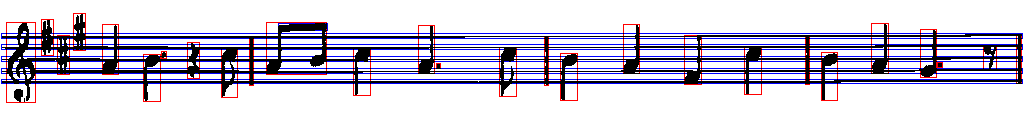
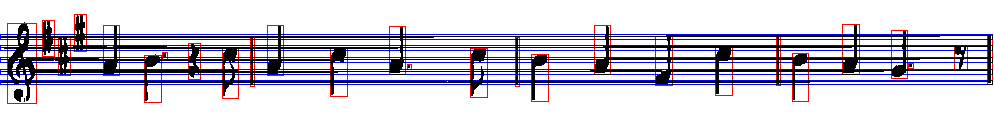
Recognise almost all elements from the example stave lines and store them in Maps/Table.

Changed region(s): [[0.0, 0.0896, 1.0, 0.7761]]

diff --git a/src/OmrOpenCV.java b/src/OmrOpenCV.java
@@ -16,6 +16,7 @@ import utils.DatasetPaths;
 import java.util.ArrayList;
 import java.util.List;
 import java.util.Map;
+import java.util.Optional;
 
 import static utils.OutputPaths.*;
 
@@ -147,7 +148,7 @@ public class OmrOpenCV {
         staveImageProcessing.saveImage(elementsWithQuartersRectangles, DEFAULT_OUTPUT.getPath());
     }
 
-    public void findAllCenterNotePoints() {
+    public List<Point> findAllCenterNotePoints() {
         Mat outputMat = refinedVerticalObjectsMat.clone();
         if (outputMat.channels() < 3) {
             Imgproc.cvtColor(outputMat, outputMat, Imgproc.COLOR_GRAY2BGR);
@@ -155,8 +156,85 @@ public class OmrOpenCV {
 
         List<Rect> rectangles = StaveElementDetection.getImageElementContourRectangles(refinedVerticalObjectsMat);
 
-        List<Point> centers = matchingTemplate.findAllNoteHeadCenters(refinedVerticalObjectsMat, rectangles);
+        List<Point> centers = matchingTemplate.findAllNoteHeadCenters(refinedVerticalObjectsMat.clone(), rectangles);
         centers.forEach(centerPoint -> Imgproc.circle(outputMat, centerPoint, 1, colorGreen, 1, Imgproc.LINE_8, 0));
         staveImageProcessing.saveImage(outputMat, DEFAULT_OUTPUT.getPath());
+
+        return centers;
+    }
+
+
+    public void recongiseElementsWithCenter() {
+        List<Rect> rectangles = StaveElementDetection.getImageElementContourRectangles(refinedVerticalObjectsMat);
+        List<Point> centers = matchingTemplate.findAllNoteHeadCenters(refinedVerticalObjectsMat, rectangles);
+
+        // recognise all quarter notes
+        Map<Rect, Mat> quartersMat = matchingTemplate.detectAllElementsUsingDataset(
+                DatasetPaths.QUARTERS_DATASET.getPath(),
+                refinedVerticalObjectsMat,
+                rectangles);
+        rectangles.removeAll(quartersMat.keySet());
+
+        Table<Rect, Mat, Point> notesWithMatAndCenter = HashBasedTable.create();
+        quartersMat.forEach((rectangle, noteMat) -> {
+            Optional<Point> center = getElementCenterPoint(rectangle, centers);
+            center.ifPresent(point -> notesWithMatAndCenter.put(rectangle, noteMat, point));
+        });
+
+        // recognise all octet notes
+        Map<Rect, Mat> octetsMat = matchingTemplate.detectAllElementsUsingDataset(
+                DatasetPaths.OCTETS_DATASET.getPath(),
+                refinedVerticalObjectsMat,
+                rectangles);
+        octetsMat.forEach((rectangle, noteMat) -> {
+            Optional<Point> center = getElementCenterPoint(rectangle, centers);
+            center.ifPresent(point -> notesWithMatAndCenter.put(rectangle, noteMat, point));
+        });
+        rectangles.removeAll(octetsMat.keySet());
+
+
+        // recognise all bar line
+        Map<Rect, Mat> barsMat = matchingTemplate.detectAllElementsUsingDataset(
+                DatasetPaths.BARS_DATASET.getPath(),
+                refinedVerticalObjectsMat,
+                rectangles);
+        rectangles.removeAll(barsMat.keySet());
+
+        // recognise all dots
+        Map<Rect, Mat> dotsMat = matchingTemplate.detectAllElementsUsingDataset(
+                DatasetPaths.DOTS_DATASET.getPath(),
+                refinedVerticalObjectsMat,
+                rectangles);
+        rectangles.removeAll(dotsMat.keySet());
+
+        // recognise all cleffs
+        Map<Rect, Mat> cleffMat = matchingTemplate.detectAllElementsUsingDataset(
+                DatasetPaths.CLEFF_DATASET.getPath(),
+                refinedVerticalObjectsMat,
+                rectangles);
+        rectangles.removeAll(cleffMat.keySet());
+
+        // recognise all diezes(?)
+        Map<Rect, Mat> diezMat = matchingTemplate.detectAllElementsUsingDataset(
+                DatasetPaths.DIEZ_DATASET.getPath(),
+                refinedVerticalObjectsMat,
+                rectangles);
+        rectangles.removeAll(diezMat.keySet());
+    }
+
+    /**
+     * Find the note center point
+     *
+     * @param rectangle input rectangle
+     * @param centers   list of note centers
+     * @return NULL if not a note
+     */
+    private Optional<Point> getElementCenterPoint(Rect rectangle, List<Point> centers) {
+        for (Point point : centers) {
+            if (StaveImageProcessing.pointInsideRect(rectangle, point)) {
+                return Optional.of(point);
+            }
+        }
+        return Optional.empty();
     }
 }

diff --git a/src/Main.java b/src/Main.java
@@ -1,4 +1,7 @@
 import org.opencv.core.Core;
+import org.opencv.core.Point;
+
+import java.util.List;
 
 /**
  * Main class starter.
@@ -17,12 +20,13 @@ public class Main {
         System.loadLibrary(Core.NATIVE_LIBRARY_NAME);
 
         OmrOpenCV omrOpenCV = new OmrOpenCV(args[0]);
-        omrOpenCV.detectMusicElement();
+//        omrOpenCV.detectMusicElement();
 //        omrOpenCV.detectStaveLines();
 //        omrOpenCV.detectAllElements();
 //        omrOpenCV.saveAllElements();
 //        omrOpenCV.detectQuarters();
 //        omrOpenCV.recongniseElementWithDatasets();
-        omrOpenCV.findAllCenterNotePoints();
+        List<Point> allCenterNotePoints = omrOpenCV.findAllCenterNotePoints();
+        omrOpenCV.recongiseElementsWithCenter();
     }
 }

diff --git a/src/utils/DatasetPaths.java b/src/utils/DatasetPaths.java
@@ -11,7 +11,12 @@ public enum DatasetPaths {
 
     DATASET_FOLDER("C:\\Users\\Ambrozie\\IdeaProjects\\OpenCVStart\\resources\\dataset"),
     FULL_HEAD_TEMPLATE(DATASET_FOLDER.getPath() + "\\full_head.png"),
-    QUARTERS_DATASET(DATASET_FOLDER.getPath() + "\\patrimi.png");
+    QUARTERS_DATASET(DATASET_FOLDER.getPath() + "\\patrimi.png"),
+    OCTETS_DATASET(DATASET_FOLDER.getPath() + "\\optimi.png"),
+    DOTS_DATASET(DATASET_FOLDER.getPath() + "\\puncte.png"),
+    DIEZ_DATASET(DATASET_FOLDER.getPath() + "\\diez.png"),
+    CLEFF_DATASET(DATASET_FOLDER.getPath() + "\\g_cleff.png"),
+    BARS_DATASET(DATASET_FOLDER.getPath() + "\\bars.png");
 
     private final String path;
 

diff --git a/src/utils/OutputPaths.java b/src/utils/OutputPaths.java
@@ -11,6 +11,7 @@ public enum OutputPaths {
     OUTPUT_FOLDER_NAME("C:\\Users\\Ambrozie\\IdeaProjects\\OpenCVStart\\outputs"),
     ELEMENTS_OUTPUT_FOLDER_NAME("C:\\Users\\Ambrozie\\IdeaProjects\\OpenCVStart\\outputs\\elements\\"),
     DEFAULT_OUTPUT(OUTPUT_FOLDER_NAME.path + "\\output.png"),
+    DEFAULT_OUTPUT2(OUTPUT_FOLDER_NAME.path + "\\output2.png"),
     ALL_ELEMENTS(OUTPUT_FOLDER_NAME.path + "\\allRectangles.png"),
     GRAY_IMAGE_PATH(OUTPUT_FOLDER_NAME.path + "\\0_gray.png"),
     BITWISE_NOT_IMAGE_PATH(OUTPUT_FOLDER_NAME.path + "\\1_bitwise_not.png"),

diff --git a/src/opencv/MatchingTemplate.java b/src/opencv/MatchingTemplate.java
@@ -92,7 +92,7 @@ public class MatchingTemplate {
         datasetMat.convertTo(datasetMat, CvType.CV_32FC1);
         Mat result = new Mat();
         result.create(datasetMat.width(), datasetMat.height(), CvType.CV_32FC1);
-        double threshold = 0.9;
+        double threshold = 0.87;
 
         Map<Rect, Mat> matchingElements = new HashMap<>();
         elementRectangles.forEach(elementRect -> {
